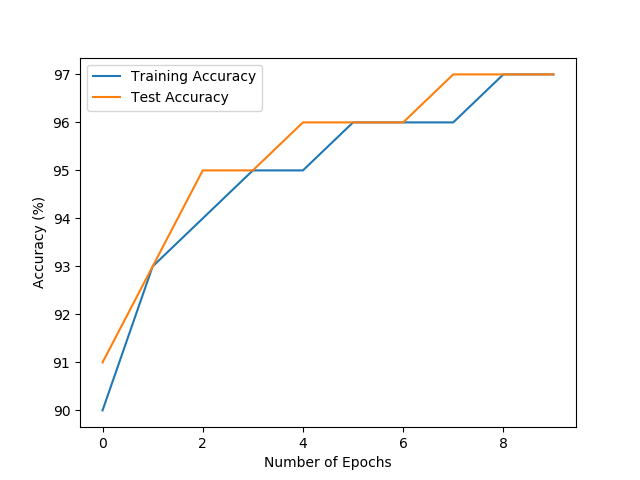
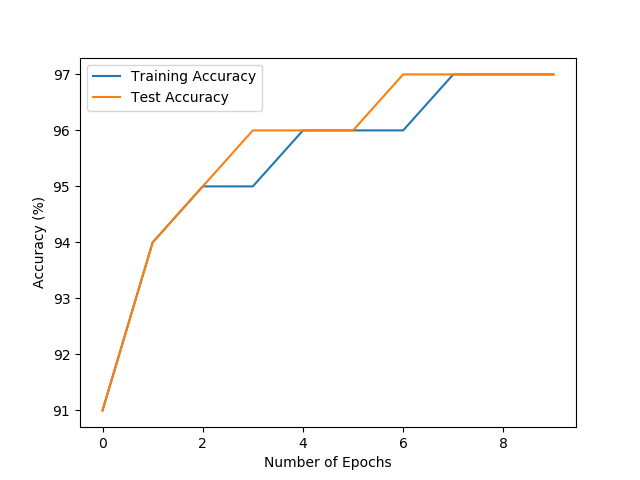
f

diff --git a/part3_8.py b/part3_8.py
@@ -1,0 +1,148 @@
+import torch
+import torch.nn as nn
+import torchvision.datasets as dsets
+import torchvision.transforms as transforms
+from torch.autograd import Variable
+import matplotlib
+matplotlib.use('Agg')
+import matplotlib.pyplot as plt
+import numpy
+from torchsummary import summary
+input_size = 784
+num_classes = 10
+num_epochs = 10
+batch_size = 100
+learning_rate = 0.001
+
+# MNIST Dataset (Images and Labels)
+train_dataset = dsets.MNIST(root ='./data',
+        train = True,
+        transform = transforms.ToTensor(),
+        download = True)
+
+test_dataset = dsets.MNIST(root ='./data',
+        train = False,
+        transform = transforms.ToTensor())
+
+# Dataset Loader (Input Pipeline)
+train_loader = torch.utils.data.DataLoader(dataset = train_dataset,
+        batch_size = batch_size,
+        shuffle = True)
+
+test_loader = torch.utils.data.DataLoader(dataset = test_dataset,
+        batch_size = batch_size,
+        shuffle = False)
+
+class SimpleNet(nn.Module):
+    def __init__(self):
+        super(SimpleNet, self).__init__() 
+
+        self.conv1 = nn.Conv2d(1, 4, kernel_size=3, stride=1, padding=1)
+        self.conv2 = nn.Conv2d(4, 16, kernel_size=3, stride=1, padding=1)
+        self.conv3 = nn.Conv2d(16, 32, kernel_size=3, stride=1, padding=1)
+        self.conv4 = nn.Conv2d(32, 64, kernel_size=3, stride=1, padding=1)
+        self.bn1 = nn.BatchNorm2d(4)
+        self.bn2 = nn.BatchNorm2d(16)
+        self.bn3 = nn.BatchNorm2d(32)
+        self.bn4 = nn.BatchNorm2d(64)
+        self.relu = nn.ReLU()
+        self.fc1 = nn.Linear(3136,784)
+        self.fc2 = nn.Linear(784, 10)
+        self.pool = nn.MaxPool2d(kernel_size=2, stride=2)
+
+    def forward(self, x):
+        out = self.relu(self.bn1(self.conv1(x)))
+        out = self.relu(self.bn2(self.conv2(out)))
+        out = self.pool(out)
+
+        out = self.relu(self.bn3(self.conv3(out)))
+        out = self.relu(self.bn4(self.conv4(out)))
+        out = self.pool(out)
+
+        out = out.view(out.size(0), -1) 
+        
+        out = self.relu(self.fc1(out))
+        out = self.fc2(out)
+        return out
+
+model = SimpleNet().cuda()
+
+summary(model, (1, 28, 28))
+
+criterion = nn.CrossEntropyLoss()
+optimizer = torch.optim.SGD(model.parameters(), lr = learning_rate)
+
+train_accuracy = []
+train_loss = []
+test_accuracy = []
+test_loss = []
+for epoch in range(num_epochs):
+    for i, (images, labels) in enumerate(train_loader):
+        #images = Variable(images.view(-1, 28 * 28))
+        images = Variable(images).cuda()
+        labels = Variable(labels).cuda()
+
+        # Forward + Backward + Optimize
+        optimizer.zero_grad()
+        outputs = model(images)
+        loss = criterion(outputs, labels)
+        # (1)
+        loss.backward()
+        # (2)
+        optimizer.step()
+        # (3)
+
+        if (i + 1) % 100 == 0:
+            print('Epoch: [% d/% d], Step: [% d/% d], Loss: %.4f'
+                    % (epoch + 1, num_epochs, i + 1,
+                       len(train_dataset) // batch_size, loss.data.item()))
+
+#train_loader_2 = torch.utils.data.DataLoader(dataset = train_dataset,
+#        batch_size = batch_size,
+#        shuffle = False)
+    correct_train = 0
+    total_train = 0
+    loss_train = 0
+    for images, labels in train_loader:
+        #images = Variable(images.view(-1, 28 * 28))
+        images = Variable(images).cuda()
+        labels = Variable(labels).cuda()
+        outputs = model(images)
+        #loss_train += criterion(outputs, labels).data.item()
+        _, predicted = torch.max(outputs.data, 1)
+        total_train += labels.size(0)
+        correct_train += (predicted == labels).sum()
+
+    #print('Train Accuracy in epoch % d: % d %%' % (epoch, 100 * correct_train / total_train))
+    #print('Train Loss: %.4f' % (loss_train / total_train * batch_size))
+    train_accuracy.append(100 * correct_train / total_train)
+    #train_loss.append(loss_train / total_train * batch_size)
+# Test the Model
+    correct_test = 0
+    total_test = 0
+    loss_test = 0
+    for images, labels in test_loader:
+        #images = Variable(images.view(-1, 28 * 28))
+        images = Variable(images).cuda()
+        labels = Variable(labels).cuda()
+        outputs = model(images)
+        #loss_test += criterion(outputs, labels).data.item()
+        _, predicted = torch.max(outputs.data, 1)
+        total_test += labels.size(0)
+        correct_test += (predicted == labels).sum()
+
+    #print('Test Accuracy: % d %%' % (100 * correct_test / total_test))
+    #print('Test Loss: %.4f' % (loss_test / total_test * batch_size))
+    test_accuracy.append(100 * correct_test / total_test)
+    #test_loss.append(loss_test / total_test * batch_size)
+
+print('The training accuracy is: % d %%' % train_accuracy[9])
+print('The test accuracy is: % d %%' % test_accuracy[9])
+
+plt.plot(train_accuracy, label='Training Accuracy')
+plt.plot(test_accuracy, label='Test Accuracy')
+plt.xlabel('Number of Epochs')
+plt.ylabel('Accuracy (%)')
+plt.legend()
+plt.savefig('./part3_8_6L.png')
+
